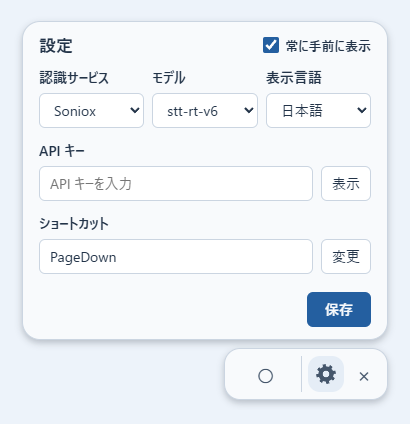
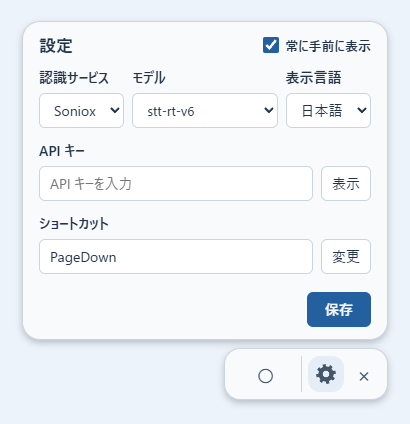
Add OpenAI transcription model selection

Changed region(s): [[0.5854, 0.1533, 0.8488, 0.3066], [0.2634, 0.1533, 0.5268, 0.3066]]

diff --git a/webview/ui/settings.js b/webview/ui/settings.js
@@ -5,8 +5,8 @@ const section = document.querySelector('#settings-panel');
 const gear = document.querySelector('#open-settings');
 const form = document.querySelector('#settings');
 const provider = document.querySelector('#provider');
-const modelField = document.querySelector('#soniox-model-field');
-const model = document.querySelector('#soniox-model');
+const model = document.querySelector('#model');
+const legacyModels = document.createElement('optgroup');
 const language = document.querySelector('#language');
 const alwaysOnTop = document.querySelector('#always-on-top');
 const key = document.querySelector('#key');
@@ -20,13 +20,30 @@ let changing = 0;
 let opening = 0;
 let keyPresent = false;
 let messageCode = '';
+let modelOptions;
+let selectedModels;
 
 function renderControls() {
+  legacyModels.label = settingsText('legacyModels');
   key.placeholder = settingsText(keyPresent ? 'keySaved' : 'keyPlaceholder');
   reveal.textContent = settingsText(key.type === 'text' ? 'hide' : 'show');
   shortcut.textContent = capturing ? settingsText('pressKey') : selectedShortcut;
   capture.textContent = settingsText(capturing ? 'cancel' : 'change');
   message.textContent = settingsLocale.error(messageCode);
+}
+
+function renderModels() {
+  if (!modelOptions) return;
+  const service = provider.value;
+  const options = modelOptions[service].map(id => new Option(id, id));
+  if (service === 'openai') {
+    const [current, ...legacy] = options;
+    legacyModels.replaceChildren(...legacy);
+    model.replaceChildren(current, legacyModels);
+  } else {
+    model.replaceChildren(...options);
+  }
+  model.value = selectedModels[service];
 }
 
 function showMessage(code = '') {
@@ -69,11 +86,12 @@ reveal.addEventListener('click', async () => {
 });
 key.addEventListener('input', () => { key.dataset.edited = 'yes'; });
 provider.addEventListener('change', () => {
-  modelField.hidden = provider.value !== 'soniox';
+  renderModels();
   delete key.dataset.edited;
   showMessage();
   void refreshKey();
 });
+model.addEventListener('change', () => { selectedModels[provider.value] = model.value; });
 language.addEventListener('change', () => settingsApi.setLanguage(language.value));
 settingsApi.onLanguage(value => {
   language.value = value;
@@ -124,7 +142,7 @@ form.addEventListener('submit', async event => {
   try {
     const result = await settingsApi.save({
       provider: chosen,
-      sonioxModel: model.value,
+      model: model.value,
       shortcut: selectedShortcut,
       alwaysOnTop: alwaysOnTop.checked,
       key: key.dataset.edited ? key.value : '',
@@ -143,10 +161,12 @@ async function load(request) {
   const config = await settingsApi.config();
   if (!config || request !== opening) return;
   provider.value = config.provider;
-  const modelIds = new Set([...config.sonioxModels, config.sonioxModel]);
-  model.replaceChildren(...Array.from(modelIds, id => new Option(id, id)));
-  model.value = config.sonioxModel;
-  modelField.hidden = provider.value !== 'soniox';
+  modelOptions = {
+    soniox: [...new Set([...config.sonioxModels, config.sonioxModel])],
+    openai: config.openAIModels,
+  };
+  selectedModels = { soniox: config.sonioxModel, openai: config.openAIModel };
+  renderModels();
   alwaysOnTop.checked = config.alwaysOnTop;
   alwaysOnTop.disabled = !config.canKeepAbove;
   selectedShortcut = config.shortcut;

diff --git a/webview/ui/webview.js b/webview/ui/webview.js
@@ -373,15 +373,12 @@
       const form = section.querySelector('form');
       const input = section.querySelector('#key');
       const provider = section.querySelector('#provider');
-      const model = section.querySelector('#soniox-model');
-      const modelField = section.querySelector('#soniox-model-field');
-      await waitFor('Default Soniox model', () => !modelField.hidden && model.value === 'stt-rt-v6');
-      provider.value = 'openai';
-      provider.dispatchEvent(new Event('change'));
-      if (!modelField.hidden) throw new Error('OpenAI settings showed the Soniox model field');
-      provider.value = 'soniox';
-      provider.dispatchEvent(new Event('change'));
-      if (modelField.hidden) throw new Error('Soniox settings hid the model field');
+      const model = section.querySelector('#model');
+      function selectProvider(value) {
+        provider.value = value;
+        provider.dispatchEvent(new Event('change'));
+      }
+      await waitFor('Default Soniox model', () => model.value === 'stt-rt-v6');
       input.value = 'x'.repeat(2001);
       input.dispatchEvent(new Event('input'));
       form.requestSubmit();
@@ -411,6 +408,20 @@
       selectLanguage('ja');
       if (document.documentElement.lang !== 'ja') throw new Error('Selecting Japanese did not immediately translate the UI');
       await languageWrite;
+      selectProvider('openai');
+      if (model.value !== 'gpt-transcribe' ||
+          Array.from(model.options, option => option.value).join(',') !==
+            'gpt-transcribe,gpt-4o-transcribe,gpt-4o-mini-transcribe,whisper-1') {
+        throw new Error('OpenAI model dropdown options were not available');
+      }
+      model.value = 'gpt-4o-mini-transcribe';
+      form.requestSubmit();
+      await waitFor('OpenAI settings saved', () => section.hidden);
+      gear.click();
+      await waitFor('Saved OpenAI model', () => !section.hidden && provider.value === 'openai' &&
+        model.value === 'gpt-4o-mini-transcribe');
+      await settingsTransition;
+      selectProvider('soniox');
       if (model.tagName !== 'SELECT' || Array.from(model.options, option => option.value).join(',') !== 'stt-rt-v6,stt-rt-v5') {
         throw new Error('Soniox model dropdown options were not available');
       }
@@ -421,7 +432,9 @@
       }
       await waitFor('Settings closed in Japanese', () => section.hidden && document.documentElement.lang === 'ja' &&
         viewportIs(fixedViewport ? settingsSize : compact));
-      if (config.sonioxModel !== 'stt-rt-v5') throw new Error('The Soniox model was not saved');
+      if (config.sonioxModel !== 'stt-rt-v5' || config.openAIModel !== 'gpt-4o-mini-transcribe') {
+        throw new Error('The models were not saved independently');
+      }
       void backend.TraceSelfTest('Settings closed');
       if (hotkeyTest) {
         if (!config.globalShortcut) throw new Error(config.error);

diff --git a/webview/ui/i18n.js b/webview/ui/i18n.js
@@ -5,6 +5,7 @@ window.voiceLocale = (() => {
     language: ['表示言語', 'Language'],
     provider: ['認識サービス', 'Service'],
     model: ['モデル', 'Model'],
+    legacyModels: ['提供終了予定', 'Scheduled for retirement'],
     keyLabel: ['API キー', 'API key'],
     keyPlaceholder: ['API キーを入力', 'Enter an API key'],
     keySaved: ['設定済み', 'API key saved'],
@@ -40,6 +41,7 @@ window.voiceLocale = (() => {
     credentialStore: ['保存した API キーを読み込めませんでした。', 'Could not read the saved API key.'],
     invalidSettings: ['設定の内容が正しくありません。', 'Check the settings and try again.'],
     invalidSonioxModel: ['Soniox のリアルタイムモデルを選んでください。', 'Select a Soniox real-time model.'],
+    invalidOpenAIModel: ['OpenAI の音声認識モデルを選んでください。', 'Select an OpenAI transcription model.'],
     invalidKey: ['API キーの形式が正しくありません。', 'The API key format is invalid.'],
     saveKey: ['API キーを保存できませんでした。', 'Could not save the API key.'],
     saveSettings: ['設定を保存できませんでした。', 'Could not save settings.'],

diff --git a/webview/ui/style.css b/webview/ui/style.css
@@ -126,9 +126,10 @@ h1 { font-size: 17px; margin: 0; }
 .keep-above input { width: 16px; height: 16px; min-height: 0; margin: 0; accent-color: var(--panel-focus); }
 .keep-above input:disabled + span { color: var(--panel-icon); }
 form { display: grid; gap: 6px; }
-.settings-pair { display: grid; grid-auto-flow: column; grid-auto-columns: minmax(0, 1fr); gap: 8px; }
+.settings-pair { display: grid; grid-template-columns: minmax(0, 1fr) minmax(0, 1.7fr) minmax(0, 1fr); gap: 8px; }
 .settings-field { display: grid; gap: 6px; }
 .settings-field select { min-width: 0; }
+#model { font-size: 13px; }
 label { margin-top: 7px; font-weight: 600; }
 input, select, output, button { font: inherit; color: inherit; }
 input, select, output, button { background: var(--panel-field); border: 1px solid var(--panel-border); border-radius: 6px; min-height: 35px; box-sizing: border-box; padding: 5px 10px; }

diff --git a/webview/ui/index.html b/webview/ui/index.html
@@ -20,9 +20,9 @@
           <label for="provider" data-l10n="provider">認識サービス</label>
           <select id="provider"><option value="soniox">Soniox</option><option value="openai">OpenAI</option></select>
         </div>
-        <div class="settings-field" id="soniox-model-field" hidden>
-          <label for="soniox-model" data-l10n="model">モデル</label>
-          <select id="soniox-model"></select>
+        <div class="settings-field">
+          <label for="model" data-l10n="model">モデル</label>
+          <select id="model"></select>
         </div>
         <div class="settings-field">
           <label for="language" data-l10n="language">表示言語</label>

diff --git a/webview/settings.go b/webview/settings.go
@@ -6,6 +6,7 @@ import (
 	"os"
 	"path/filepath"
 	"regexp"
+	"slices"
 	"strings"
 
 	"github.com/wailsapp/wails/v2/pkg/runtime"
@@ -14,8 +15,10 @@ import (
 
 const keyringService = "Voice Typing WebView"
 const defaultSonioxModel = "stt-rt-v6"
+const defaultOpenAIModel = "gpt-transcribe"
 
 var sonioxModels = []string{defaultSonioxModel, "stt-rt-v5"}
+var openAIModels = []string{defaultOpenAIModel, "gpt-4o-transcribe", "gpt-4o-mini-transcribe", "whisper-1"}
 
 var shortcutPattern = regexp.MustCompile(`^(?:(?:Command|Super|Control|Alt|Shift)\+)*(?:PageDown|PageUp|Home|End|Insert|Delete|Space|Backspace|Up|Down|Left|Right|Tab|Enter|[A-Z0-9]|F(?:[1-9]|1[0-9]|2[0-4]))$`)
 var sonioxModelPattern = regexp.MustCompile(`^stt-rt-[a-z0-9][a-z0-9._-]{0,63}$`)
@@ -23,6 +26,7 @@ var sonioxModelPattern = regexp.MustCompile(`^stt-rt-[a-z0-9][a-z0-9._-]{0,63}$`
 type Preferences struct {
 	Provider    string `json:"provider"`
 	SonioxModel string `json:"sonioxModel"`
+	OpenAIModel string `json:"openAIModel"`
 	Shortcut    string `json:"shortcut"`
 	AlwaysOnTop bool   `json:"alwaysOnTop"`
 	Language    string `json:"language"`
@@ -30,7 +34,7 @@ type Preferences struct {
 
 type SettingsForm struct {
 	Provider    string `json:"provider"`
-	SonioxModel string `json:"sonioxModel"`
+	Model       string `json:"model"`
 	Shortcut    string `json:"shortcut"`
 	AlwaysOnTop bool   `json:"alwaysOnTop"`
 	Key         string `json:"key"`
@@ -41,7 +45,10 @@ func validProvider(provider string) bool {
 }
 
 func (p *Probe) loadPreferences() {
-	p.prefs = Preferences{Provider: "soniox", SonioxModel: defaultSonioxModel, Shortcut: "PageDown", AlwaysOnTop: true, Language: "ja"}
+	p.prefs = Preferences{
+		Provider: "soniox", SonioxModel: defaultSonioxModel, OpenAIModel: defaultOpenAIModel,
+		Shortcut: "PageDown", AlwaysOnTop: true, Language: "ja",
+	}
 	if p.IsSelfTest() {
 		return
 	}
@@ -57,6 +64,9 @@ func (p *Probe) loadPreferences() {
 		if !sonioxModelPattern.MatchString(settings.SonioxModel) {
 			settings.SonioxModel = defaultSonioxModel
 		}
+		if !slices.Contains(openAIModels, settings.OpenAIModel) {
+			settings.OpenAIModel = defaultOpenAIModel
+		}
 		p.prefs = settings
 	}
 }
@@ -67,6 +77,7 @@ func (p *Probe) Config() map[string]any {
 	return map[string]any{
 		"provider": p.prefs.Provider, "shortcut": p.prefs.Shortcut,
 		"sonioxModel": p.prefs.SonioxModel, "sonioxModels": sonioxModels,
+		"openAIModel": p.prefs.OpenAIModel, "openAIModels": openAIModels,
 		"alwaysOnTop": p.prefs.AlwaysOnTop, "canKeepAbove": true,
 		"language":       p.prefs.Language,
 		"globalShortcut": p.shortcut != nil && p.shortcutError == "",
@@ -136,15 +147,20 @@ func (p *Probe) Save(form SettingsForm) map[string]any {
 	settings.Provider = form.Provider
 	settings.Shortcut = form.Shortcut
 	settings.AlwaysOnTop = form.AlwaysOnTop
-	if form.Provider == "soniox" {
-		model := strings.TrimSpace(form.SonioxModel)
-		if model == "" {
-			model = defaultSonioxModel
+	model := strings.TrimSpace(form.Model)
+	if model != "" {
+		switch form.Provider {
+		case "soniox":
+			if !sonioxModelPattern.MatchString(model) {
+				return failure("ui.invalidSonioxModel")
+			}
+			settings.SonioxModel = model
+		case "openai":
+			if !slices.Contains(openAIModels, model) {
+				return failure("ui.invalidOpenAIModel")
+			}
+			settings.OpenAIModel = model
 		}
-		if !sonioxModelPattern.MatchString(model) {
-			return failure("ui.invalidSonioxModel")
-		}
-		settings.SonioxModel = model
 	}
 	changedShortcut := p.shortcut != nil && (settings.Shortcut != p.prefs.Shortcut || p.shortcutError != "")
 	if changedShortcut {
@@ -180,6 +196,9 @@ func (p *Probe) sessionSettings() (provider, model, key string, err error) {
 	p.settingsMu.Lock()
 	provider = p.prefs.Provider
 	model = p.prefs.SonioxModel
+	if provider == "openai" {
+		model = p.prefs.OpenAIModel
+	}
 	p.settingsMu.Unlock()
 	if p.IsSelfTest() {
 		return provider, model, "synthetic-test-credential", nil

diff --git a/webview/openai.go b/webview/openai.go
@@ -16,18 +16,21 @@ import (
 	"github.com/wailsapp/wails/v2/pkg/runtime"
 )
 
+const openAITranscriptionURL = "https://api.openai.com/v1/audio/transcriptions"
+
 type openAIRecording struct {
 	ctx      context.Context
 	cancel   context.CancelFunc
 	key      string
+	model    string
 	rate     int
 	pcm      []byte
 	finished bool
 }
 
-func newOpenAIRecording(ctx context.Context, key string, rate int) *openAIRecording {
+func newOpenAIRecording(ctx context.Context, key, model string, rate int) *openAIRecording {
 	ctx, cancel := context.WithCancel(ctx)
-	return &openAIRecording{ctx: ctx, cancel: cancel, key: key, rate: rate}
+	return &openAIRecording{ctx: ctx, cancel: cancel, key: key, model: model, rate: rate}
 }
 
 func (r *openAIRecording) add(block []byte) error {
@@ -41,7 +44,7 @@ func (r *openAIRecording) add(block []byte) error {
 	return nil
 }
 
-func (r *openAIRecording) transcribe() (string, error) {
+func (r *openAIRecording) transcribe(endpoint string) (string, error) {
 	if len(r.pcm) == 0 {
 		return "", nil
 	}
@@ -61,7 +64,7 @@ func (r *openAIRecording) transcribe() (string, error) {
 	le.PutUint32(header[40:], uint32(len(r.pcm)))
 	var body bytes.Buffer
 	form := multipart.NewWriter(&body)
-	if err := form.WriteField("model", "gpt-transcribe"); err != nil {
+	if err := form.WriteField("model", r.model); err != nil {
 		return "", err
 	}
 	audio, err := form.CreateFormFile("file", "dictation.wav")
@@ -76,7 +79,7 @@ func (r *openAIRecording) transcribe() (string, error) {
 	}
 	ctx, cancel := context.WithTimeout(r.ctx, 90*time.Second)
 	defer cancel()
-	request, err := http.NewRequestWithContext(ctx, http.MethodPost, "https://api.openai.com/v1/audio/transcriptions", &body)
+	request, err := http.NewRequestWithContext(ctx, http.MethodPost, endpoint, &body)
 	if err != nil {
 		return "", err
 	}
@@ -109,7 +112,7 @@ func (p *Probe) finishOpenAI(recording *openAIRecording) error {
 	p.mu.Unlock()
 	go func() {
 		defer recording.cancel()
-		text, err := recording.transcribe()
+		text, err := recording.transcribe(openAITranscriptionURL)
 		p.mu.Lock()
 		active := p.openAI == recording
 		if active {

diff --git a/webview/openai_test.go b/webview/openai_test.go
@@ -1,0 +1,45 @@
+package main
+
+import (
+	"context"
+	"fmt"
+	"net/http"
+	"net/http/httptest"
+	"os"
+	"path/filepath"
+	"testing"
+)
+
+func TestOpenAITranscriptionUsesSavedModel(t *testing.T) {
+	const model = "gpt-4o-mini-transcribe"
+	settingsPath := filepath.Join(t.TempDir(), "settings.json")
+	if err := os.WriteFile(settingsPath, []byte(`{"provider":"openai","openAIModel":"gpt-4o-mini-transcribe"}`), 0600); err != nil {
+		t.Fatal(err)
+	}
+	probe := &Probe{ctx: context.Background(), settingsPath: settingsPath}
+	probe.loadPreferences()
+	probe.testLog = filepath.Join(filepath.Dir(settingsPath), "result.txt")
+	if err := probe.Connect(16000); err != nil {
+		t.Fatal(err)
+	}
+	recording := probe.openAI
+	defer recording.cancel()
+	if err := recording.add([]byte{0, 0}); err != nil {
+		t.Fatal(err)
+	}
+	server := httptest.NewServer(http.HandlerFunc(func(w http.ResponseWriter, r *http.Request) {
+		if err := r.ParseMultipartForm(1 << 20); err != nil {
+			t.Errorf("read transcription request: %v", err)
+			w.WriteHeader(http.StatusBadRequest)
+			return
+		}
+		if got := r.FormValue("model"); got != model {
+			t.Errorf("sent model %q, want %q", got, model)
+		}
+		fmt.Fprint(w, `{"text":"dictation result"}`)
+	}))
+	defer server.Close()
+	if text, err := recording.transcribe(server.URL); err != nil || text != "dictation result" {
+		t.Fatalf("transcribe returned %q, %v", text, err)
+	}
+}

diff --git a/webview/main.go b/webview/main.go
@@ -96,7 +96,7 @@ func (p *Probe) Connect(rate int) error {
 		return errors.New("ui.alreadyConnected")
 	}
 	if provider == "openai" {
-		p.openAI = newOpenAIRecording(p.ctx, key, rate)
+		p.openAI = newOpenAIRecording(p.ctx, key, model, rate)
 		return nil
 	}
 	ctx, cancel := context.WithTimeout(p.ctx, 8*time.Second)
